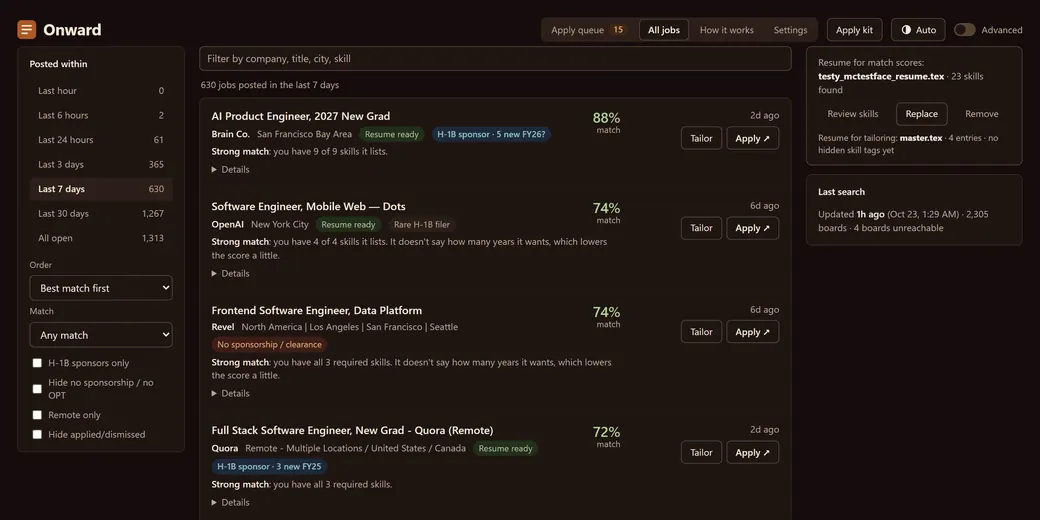
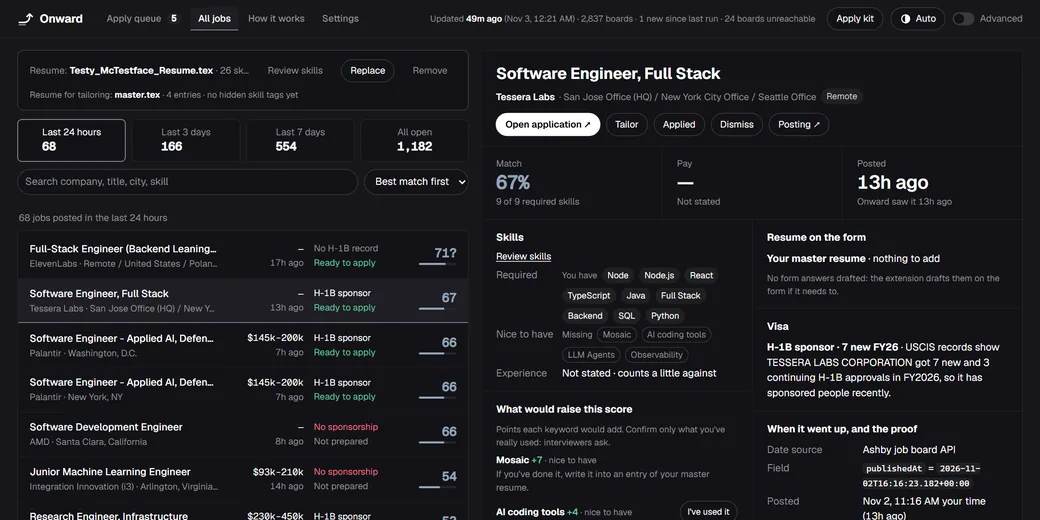
Refresh the Onward shots, drop the Swing light capture
Onward

Rebuild both thumbnails from the current captures in the app's own
docs/screenshots: the apply queue in light, all jobs in dark. They are
a matched pair of the same window, and they show the match scores and
the detail panel the earlier shots predated. Cropped to the 2:1 every
file in public/shots is authored at.

Portfolio Simulator

Serve the dark capture only. The chart renders through Swing's Metal
look in light mode — grey ground, blue gridlines, black-outlined
candles — and it fought the warm paper it sat on. With no light shot
the card falls back to the drawn chart, which is built out of the
palette and follows whichever season is on.

diff --git a/src/data/portfolio.js b/src/data/portfolio.js
@@ -264,7 +264,12 @@ export const projects = [
     ],
     stack: ['Java', 'Swing', 'MVC', 'Alpha Vantage'],
     visual: 'market',
-    shot: { dark: '/shots/market-dark.webp', light: '/shots/market-light.webp' },
+    // Dark only, deliberately. The Swing light theme this chart renders in is
+    // a grey ground with blue gridlines and black-outlined candles, which
+    // fights the warm paper it would be served on. With no light shot,
+    // ProjectVisual falls back to the drawn chart, which is already built out
+    // of the palette and tracks whichever season is on.
+    shot: { dark: '/shots/market-dark.webp' },
     github: '',
     demo: '',
   },
